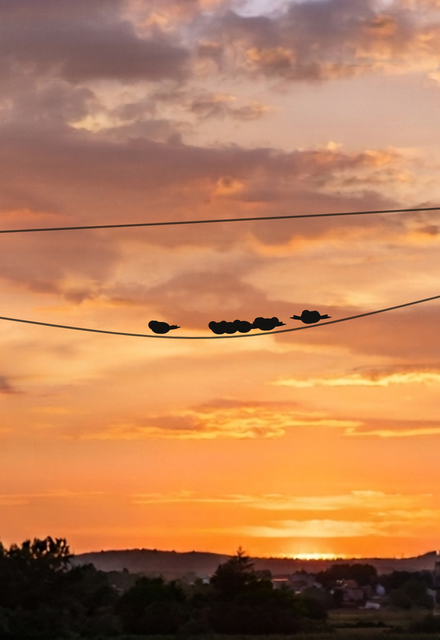
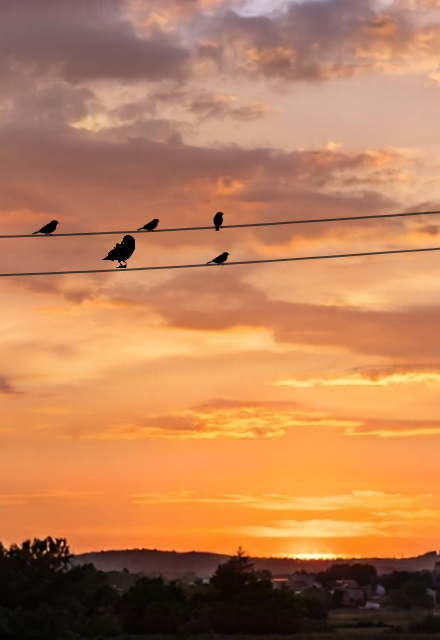
Anthill, acorn, and birds fixes
Anthill: double the twig, add a shadow under the leaf, let ants walk
over the leaf's stem/tip instead of always ducking under it, and give
ants a chance to climb over obstacles instead of always going around.

Acorn: fix spin accumulating forever once wedged against a tray wall
(it now tracks actual movement, not pre-collision speed), ease the
curl rate so it arcs like a rolling cone rather than spiraling tight,
and average the first half-second of tilt readings so the mobile
control doesn't lock onto the instant your hand is still reaching for
the button.

Birds: halve the sparrows, bump the crows up so they read as clearly
bigger, split the single bird count slider into one for each species,
and trim the mismatched wooden perch baked into the crow photos so
crows sit on the same thin wire the sparrows use (this also removes a
watermark smudge that was on one of the crow images). Re-shot the
landing-page card from the corrected scene.

diff --git a/birds/index.html b/birds/index.html
@@ -12,10 +12,10 @@
   #backlink{ position:fixed; top:18px; left:22px; z-index:50; color:var(--parchment); opacity:.6; text-decoration:none; font-size:14px; letter-spacing:.04em; text-shadow:0 1px 3px rgba(0,0,0,.5), 0 0 9px rgba(0,0,0,.3); transition:opacity .3s ease; }
   #backlink:hover{opacity:1;}
   canvas{ position:absolute; inset:0; width:100%; height:100%; display:block; touch-action:none; }
-  #dock{ position:fixed; bottom:0; left:0; right:0; display:flex; align-items:center; justify-content:center; gap:16px;
+  #dock{ position:fixed; bottom:0; left:0; right:0; display:flex; flex-wrap:wrap; align-items:center; justify-content:center; gap:10px 16px;
     padding:14px 18px 24px; background:linear-gradient(to top, rgba(10,13,20,.35), rgba(10,13,20,0)); z-index:40; }
   .glyph{ font-size:15px; opacity:.85; text-shadow:0 1px 3px rgba(0,0,0,.4); display:inline-flex; align-items:center; color:var(--parchment); filter:drop-shadow(0 1px 2px rgba(0,0,0,.4)); }
-  #sparrowRow{ display:flex; align-items:center; gap:10px; }
+  #sparrowRow, #crowRow{ display:flex; align-items:center; gap:10px; }
   input[type=range]{ -webkit-appearance:none; appearance:none; width:200px; height:3px; border-radius:3px; background:rgba(242,233,216,.4); outline:none; }
   input[type=range]::-webkit-slider-thumb{ -webkit-appearance:none; width:14px; height:14px; border-radius:50%; background:var(--brass); cursor:pointer; box-shadow:0 0 6px rgba(0,0,0,.4); }
 </style>
@@ -56,11 +56,13 @@
 <canvas id="scene"></canvas>
 <div id="dock">
   <div id="sparrowRow"><span class="glyph" aria-label="sparrows"><svg width="20" height="16" viewBox="0 0 20 16" fill="currentColor"><ellipse cx="10" cy="9" rx="6.4" ry="4.6"/><circle cx="15.5" cy="5.6" r="3.4"/><path d="M4.2 8 L-0.2 5.4 L-0.2 10.8 Z" transform="translate(0.5,0)"/></svg></span><input type="range" id="sparrowSlider" min="0" max="18" value="6"></div>
+  <div id="crowRow"><span class="glyph" aria-label="crows"><svg width="26" height="20" viewBox="0 0 26 20" fill="currentColor"><ellipse cx="13" cy="11.5" rx="8.8" ry="6.2"/><circle cx="20.5" cy="7" r="4.4"/><path d="M5.4 10 L-0.4 6.6 L-0.4 13.8 Z" transform="translate(0.6,0)"/></svg></span><input type="range" id="crowSlider" min="0" max="10" value="2"></div>
 </div>
 <script>
 (function(){
   const canvas=document.getElementById('scene'), ctx=canvas.getContext('2d');
   const sparrowSlider=document.getElementById('sparrowSlider');
+  const crowSlider=document.getElementById('crowSlider');
   let W=0,H=0,DPR=1;
 
   // ---- background: a real photo (sunset sky + the two poles), used as-is — we only draw
@@ -163,9 +165,33 @@
   // photo, so the feet land exactly on our own wire regardless of window size.
   // White backgrounds render as pure silhouettes via 'multiply' blending (draw() below) —
   // white multiplies to no-op, black multiplies to black, no cutout/alpha-matte needed.
-  function sprite(file,w,h,ax,ay,nativeFacing){
-    const img=new Image(); img.src='bird-sprites/'+file;
-    return {img,w,h,ax,ay,nativeFacing:nativeFacing||-1};
+  // some crow reference photos have their own perch branch baked into the crop, thicker than
+  // and at the wrong angle for the thin wire we draw underneath. `trim` fades that branch out
+  // beyond the bird's own feet (a band of half-width `halfW` around x=ax, cut off entirely
+  // past y=cutY) so our real wire shows through instead of the mismatched one from the photo.
+  function sprite(file,w,h,ax,ay,nativeFacing,trim){
+    const img=new Image();
+    const sp={img,w,h,ax,ay,nativeFacing:nativeFacing||-1,masked:null};
+    img.onload=function(){
+      if(!trim) return;
+      const off=document.createElement('canvas'); off.width=w; off.height=h;
+      const octx=off.getContext('2d');
+      octx.drawImage(img,0,0,w,h);
+      const id=octx.getImageData(0,0,w,h), d=id.data;
+      const {bandY,halfW,cutY,feather=4}=trim;
+      for(let py=0; py<h; py++){
+        for(let px=0; px<w; px++){
+          let keep=1;
+          if(py>bandY){ const dx=Math.abs(px-ax)-halfW; if(dx>0) keep=Math.min(keep,Math.max(0,1-dx/feather)); }
+          if(py>cutY){ const dy=py-cutY; keep=Math.min(keep,Math.max(0,1-dy/feather)); }
+          if(keep<1){ const idx=(py*w+px)*4; d[idx+3]=Math.round(d[idx+3]*keep); }
+        }
+      }
+      octx.putImageData(id,0,0);
+      sp.masked=off;
+    };
+    img.src='bird-sprites/'+file;
+    return sp;
   }
   const FLY_FRAMES=[
     sprite('bird-fly-1.png',424,396,8,282),
@@ -190,7 +216,7 @@
   const SHUFFLE_LAUNCH=sprite('bird-shuffle-launch.png',438,432,255,290);
   const SHUFFLE_SETTLE=sprite('bird-shuffle-settle.png',444,284,147,240);
   const SHUFFLE_CROUCH_END=0.30, SHUFFLE_LAUNCH_END=0.45;   // fractions of the shuffle's total duration
-  const BIRD_SCALE=0.09;    // sprite pixels -> screen pixels, tuned by eye
+  const BIRD_SCALE=0.045;   // sprite pixels -> screen pixels, tuned by eye
   const SPRITE_FLAP_HZ=4.2; // full 8-frame flap cycles per second
 
   // ---- crows: a second, larger, rarer species. Same silhouette/multiply-blend approach as
@@ -207,15 +233,14 @@
     sprite('crow-fly-8.png',261,277,185,165,1),
   ];
   const CROW_LAND_APPROACH=sprite('crow-land-approach.png',268,262,195,135,1);
-  const CROW_TOUCHDOWN=sprite('crow-touchdown.png',292,269,172,236,1);
+  const CROW_TOUCHDOWN=sprite('crow-touchdown.png',292,269,172,236,1,{bandY:188,halfW:32,cutY:224,feather:4});
   const CROW_PERCH_VARIANTS=[
-    sprite('crow-perch.png',217,239,103,224,1),
-    sprite('crow-perch-alt.png',234,222,112.5,209,1),
-    sprite('crow-perch-back.png',232,218,110.5,205,1),
-    sprite('crow-perch-sleep.png',236,209,113.5,197,1),
+    sprite('crow-perch.png',217,239,103,224,1,{bandY:150,halfW:38,cutY:200,feather:4}),
+    sprite('crow-perch-alt.png',234,222,112.5,209,1,{bandY:148,halfW:42,cutY:195,feather:4}),
+    sprite('crow-perch-back.png',232,218,110.5,205,1,{bandY:130,halfW:45,cutY:190,feather:4}),
+    sprite('crow-perch-sleep.png',236,209,113.5,197,1,{bandY:138,halfW:42,cutY:182,feather:4}),
   ];
-  const CROW_SCALE=0.15;   // crows read as a noticeably bigger bird than sparrows, tuned by eye
-  const CROW_CHANCE=0.15;  // fraction of new arrivals that are a crow rather than a sparrow
+  const CROW_SCALE=0.17;   // crows read as a noticeably bigger bird than sparrows, tuned by eye
 
   // draws any of the sprites above at (x,y), silhouette-only via multiply blending, flipped
   // to match the bird's actual facing against however that sprite was originally drawn
@@ -223,10 +248,11 @@
     if(!sp.img.complete || !sp.img.naturalWidth) return;
     scale = scale || BIRD_SCALE;
     const flip = facing===sp.nativeFacing ? 1 : -1;
+    const src = sp.masked || sp.img;
     ctx.save();
     ctx.translate(x,y); ctx.scale(flip,1);
     ctx.globalCompositeOperation='multiply';
-    ctx.drawImage(sp.img, -sp.ax*scale, -sp.ay*scale, sp.w*scale, sp.h*scale);
+    ctx.drawImage(src, -sp.ax*scale, -sp.ay*scale, sp.w*scale, sp.h*scale);
     ctx.restore();
   }
 
@@ -309,9 +335,8 @@
   function randomStayFor(){
     return Math.random()<0.4 ? 3+Math.random()*7 : 10+Math.random()*35;
   }
-  function spawnSparrow(){
+  function spawnSparrow(species){
     const fromLeft=Math.random()<0.5;
-    const species=Math.random()<CROW_CHANCE ? 'crow' : 'sparrow';
     const {wireIdx,x:targetX}=pickLanding();
     const b={id:idc++, species, state:'arriving', x: fromLeft?-40:W+40, y:H*0.25+Math.random()*60,
       targetX, wireIdx, facing: fromLeft?1:-1, wingPhase:Math.random()*7, t:0, shuffleFrom:0, shuffleTo:0, shuffleT:0,
@@ -412,23 +437,26 @@
   }
   window.addEventListener('resize',resize);
 
-  let wantCount=6;
-  sparrowSlider.addEventListener('input',()=>{ wantCount=+sparrowSlider.value; });
+  let wantSparrows=6, wantCrows=2;
+  sparrowSlider.addEventListener('input',()=>{ wantSparrows=+sparrowSlider.value; });
+  crowSlider.addEventListener('input',()=>{ wantCrows=+crowSlider.value; });
   let spawnTimer=0;
 
   let last=performance.now();
   function tick(now){
     const dt=Math.min((now-last)/1000,0.05); last=now;
-    // the slider is a target level of activity, not a hard cap — birds come and go on their
+    // each slider is a target level of activity, not a hard cap — birds come and go on their
     // own (see stayFor/settleCrowding), and arrivals just get more likely the further below
     // that target the current count sits, tapering to a low ambient trickle once at or above it
     spawnTimer-=dt;
     if(spawnTimer<=0){
       spawnTimer=0.4+Math.random()*0.9;
-      const alive=sparrows.filter(b=>b.state!=='departing').length;
-      if(wantCount>0 && alive<wantCount+1){
-        const pressure=Math.max(0,wantCount-alive)/Math.max(1,wantCount);
-        if(Math.random()<0.12+0.7*pressure) spawnSparrow();
+      for(const [species,wantCount] of [['sparrow',wantSparrows],['crow',wantCrows]]){
+        const alive=sparrows.filter(b=>b.species===species && b.state!=='departing').length;
+        if(wantCount>0 && alive<wantCount+1){
+          const pressure=Math.max(0,wantCount-alive)/Math.max(1,wantCount);
+          if(Math.random()<0.12+0.7*pressure) spawnSparrow(species);
+        }
       }
     }
 

diff --git a/acorn/index.html b/acorn/index.html
@@ -264,7 +264,9 @@
   let rawTiltX = 0, rawTiltY = 0;
   let tiltX = 0, tiltY = 0;
   let baseBeta = null, baseGamma = null;
+  let calibSamples = [], calibStart = 0;
   const SMOOTHING = 0.12;
+  const CALIBRATION_MS = 500;
 
   function useDeviceTilt(){
     window.addEventListener('deviceorientation', (e) => {
@@ -273,10 +275,25 @@
       // countdown might sit at 20 degrees or 70 depending on the case or
       // the table, and everyone holds a phone slightly differently even
       // just standing there. Rather than assuming a prop angle, whatever
-      // orientation the phone is actually in the moment tilt gets
-      // enabled becomes the neutral centre, and every reading after that
-      // is measured relative to it.
-      if (baseBeta === null) { baseBeta = e.beta; baseGamma = e.gamma; }
+      // orientation the phone is actually in becomes the neutral centre,
+      // and every reading after that is measured relative to it.
+      //
+      // that "actually in" reading can't be the very first sample, though —
+      // it lands the instant tilt is enabled (or the tray is tapped to
+      // recentre), while the hand is often still reaching the phone up
+      // toward the face to press that button, not resting at however it'll
+      // actually be held to watch afterward. Averaging a brief window of
+      // samples instead gives the hand time to settle back down first.
+      if (baseBeta === null) {
+        if (!calibSamples.length) calibStart = performance.now();
+        calibSamples.push({ beta: e.beta, gamma: e.gamma });
+        if (performance.now() - calibStart >= CALIBRATION_MS) {
+          baseBeta = calibSamples.reduce((s, c) => s + c.beta, 0) / calibSamples.length;
+          baseGamma = calibSamples.reduce((s, c) => s + c.gamma, 0) / calibSamples.length;
+          calibSamples = [];
+        }
+        return;
+      }
       rawTiltX = Math.max(-1, Math.min(1, (e.gamma - baseGamma) / 22));
       rawTiltY = Math.max(-1, Math.min(1, (e.beta - baseBeta) / 22));
     });
@@ -410,10 +427,14 @@
     pebble:    { friction: 0.985, radius: 30, wobble: 0 },
     // acorn cone-roll derived from the real photo: cap outer edge ~441px (R),
     // nut's rounded bottom ~217px (r), axial length ~318px between them.
-    // A tapered object rolls in a circle; curl per px = 2(R-r)/(L(R+r)).
+    // A tapered object rolls in a circle; curl per px = 2(R-r)/(L(R+r)) ≈
+    // 0.0021 for those measurements. The value here had drifted to roughly
+    // double that, which curls it into a tight spiral rather than the wide,
+    // graceful loop an actual cone traces — corrected back to the derived
+    // figure (with a touch of margin for visual clarity).
     // catchInterval 1e9 disables the old random stick-slip kick so the arc
     // reads as a clean, steady cone curve rather than a wavy ball.
-    acorn:     { friction: 0.974, radius: 62, wobble: 1, catchInterval: 1e9, curlRate: 0.0040 },
+    acorn:     { friction: 0.974, radius: 62, wobble: 1, catchInterval: 1e9, curlRate: 0.0024 },
     disc:      { friction: 0.976, radius: 34, wobble: 0, spinOnImpact: 1 },
     jellybean: { friction: 0.982, radius: 32, wobble: 1, catchInterval: 1e9, curlRate: 0.0022 },
   };
@@ -472,6 +493,7 @@
     resetObject();
     baseBeta = null;
     baseGamma = null;
+    calibSamples = [];
   });
 
   // ---------- physics ----------
@@ -488,11 +510,6 @@
 
     const speed = Math.hypot(obj.vx, obj.vy);
     const r = spec.radius;
-
-    // real rolling: how far it's actually travelled determines how much
-    // it's turned, exactly like a wheel — used for rendering the spin,
-    // and for the acorn also used to time when the cap catches next
-    obj.spin += speed / r;
 
     if (spec.wobble) {
       obj.rollDistance += speed;
@@ -545,6 +562,7 @@
       obj.discSpin += obj.discAngVel;
     }
 
+    const prevX = obj.x, prevY = obj.y;
     obj.x += obj.vx;
     obj.y += obj.vy;
 
@@ -554,6 +572,15 @@
     if (obj.x > W - r) { obj.x = W - r; obj.vx = -obj.vx * WALL_RESTITUTION; clacked = true; clackIntensity = Math.abs(obj.vx); if (spec.spinOnImpact) obj.discAngVel -= obj.vy * 0.05; }
     if (obj.y < r) { obj.y = r; obj.vy = -obj.vy * WALL_RESTITUTION; clacked = true; clackIntensity = Math.abs(obj.vy); if (spec.spinOnImpact) obj.discAngVel -= obj.vx * 0.05; }
     if (obj.y > H - r) { obj.y = H - r; obj.vy = -obj.vy * WALL_RESTITUTION; clacked = true; clackIntensity = Math.abs(obj.vy); if (spec.spinOnImpact) obj.discAngVel += obj.vx * 0.05; }
+
+    // real rolling: how far it's actually MOVED this frame determines how
+    // much it's turned, exactly like a wheel — measured after wall contact
+    // is resolved, not the pre-collision velocity. An object pressed into
+    // a wall or corner by steady tilt has nowhere left to roll, so it
+    // should stop spinning too, the same way a real one pinned in place
+    // would — using pre-collision speed here made it spin forever in a
+    // corner even once it had visibly stopped moving.
+    obj.spin += Math.hypot(obj.x - prevX, obj.y - prevY) / r;
     if (clacked && clackIntensity > 0.6) playClack(clackIntensity);
 
     // acorn sprite orientation: a rolling cone keeps its long axis across the

diff --git a/ant/index.html b/ant/index.html
@@ -266,7 +266,7 @@
   // the icons are the only way in or out ----------
   const PEBBLE_R_MIN = 8, PEBBLE_R_MAX = 22;
   const LEAF_R_MIN = 15, LEAF_R_MAX = 45;
-  const TWIG_R_MIN = 16, TWIG_R_MAX = 48;
+  const TWIG_R_MIN = 32, TWIG_R_MAX = 96; // twice the footprint of the original size
   let stones = [];
   let pebbleObstacle = null;
   let leafObstacle = null;
@@ -382,6 +382,14 @@
   // rotated box the leaf photo is drawn into (see render()), inset a little
   // so ants vanish/reappear at roughly the leaf's actual silhouette rather
   // than its full (mostly-transparent-cornered) bounding rectangle.
+  //
+  // a real leaf lying on the ground isn't uniformly raised — it touches
+  // down at its two points, the stem and the tip (the local x-axis, since
+  // the source photo runs stem-on-the-left to tip-on-the-right), and only
+  // arches up over its broader sides in between. So there's a walkway
+  // along that central spine where ants stay visible, walking over the
+  // low point of contact, while the wider belly to either side of it still
+  // hides them underneath.
   function underLeaf(x,y){
     if (!leafObstacle) return false;
     const lw = leafObstacle.r*2.8, lh = lw * ((leafImg.naturalHeight||1)/(leafImg.naturalWidth||1));
@@ -390,7 +398,10 @@
     const dx = x-leafObstacle.x, dy = y-leafObstacle.y;
     const cos = Math.cos(-rot), sin = Math.sin(-rot);
     const lx = dx*cos - dy*sin, ly = dx*sin + dy*cos;
-    return (lx*lx)/(rx*rx) + (ly*ly)/(ry*ry) <= 1;
+    const insideFootprint = (lx*lx)/(rx*rx) + (ly*ly)/(ry*ry) <= 1;
+    if (!insideFootprint) return false;
+    const onWalkway = Math.abs(ly) < ry*0.22;
+    return !onWalkway;
   }
 
   // ---------- colony and food ----------
@@ -411,6 +422,7 @@
       state: 'search', // search | toFood | return
       wobble: Math.random()*Math.PI*2,
       straightTimer: 30 + Math.random()*60,
+      climbing: null, // the obstacle currently being crossed straight over, if any
     };
   }
   function syncAntCount(){
@@ -423,6 +435,20 @@
   function stepAnt(a, dt){
     const speed = 1.3 * speedMult * dt;
     a.wobble += dt*0.15;
+
+    if (a.climbing){
+      // already committed to crossing a pebble or twig straight over rather
+      // than around — hold the heading it started with (a real ant doesn't
+      // change its mind partway up) and ignore the search/trail/collision
+      // logic below entirely until it's clear of the far side
+      let cx = a.x + Math.cos(a.heading)*speed;
+      let cy = a.y + Math.sin(a.heading)*speed;
+      cx = Math.max(4, Math.min(W-4, cx));
+      cy = Math.max(4, Math.min(H-4, cy));
+      a.x = cx; a.y = cy;
+      if (Math.hypot(a.climbing.x-a.x, a.climbing.y-a.y) > a.climbing.r*1.05) a.climbing = null;
+      return;
+    }
 
     if (a.state === 'search'){
       // weighted choice: mostly wander, but nearby trail strength pulls
@@ -463,12 +489,18 @@
       if (distToColony < 14){ a.state = 'search'; a.heading = Math.random()*Math.PI*2; }
     }
 
-    // obstacle disruption: if the step ahead is blocked, weighted random
-    // alternate direction — this is the actual mechanic, not scripted
-    // pathing around stones
+    // obstacle disruption: if the step ahead is blocked, either climb
+    // straight over it (a real ant crossing a low pebble or twig, not
+    // every single one detouring around) or fall back to a weighted random
+    // alternate direction
     let nx = a.x + Math.cos(a.heading)*speed;
     let ny = a.y + Math.sin(a.heading)*speed + Math.sin(a.wobble)*0.3;
     if (blockedAt(nx,ny)){
+      const obstacle = stones.find(s => s.type !== 'leaf' && Math.hypot(s.x-nx,s.y-ny) < s.r);
+      if (obstacle && Math.random() < 0.3){
+        a.climbing = obstacle;
+        return;
+      }
       const choices = [-1.1,-0.6,0.6,1.1];
       a.heading += choices[Math.floor(Math.random()*choices.length)];
       nx = a.x + Math.cos(a.heading)*speed;
@@ -665,6 +697,24 @@
       ctx.stroke();
       ctx.restore();
     });
+
+    // leaf shadow — cast on the ground by the raised canopy, offset toward
+    // the same implied light direction as the candy's shadow above. Drawn
+    // here (before the ants) rather than down with the leaf image itself,
+    // so it's ground shading ants visibly cross like any other, not a mark
+    // that floats on top of them.
+    if (leafObstacle && leafImgReady){
+      const lw = leafObstacle.r*2.8, lh = lw * (leafImg.naturalHeight/leafImg.naturalWidth);
+      ctx.save();
+      ctx.globalAlpha = lightLevel;
+      ctx.translate(leafObstacle.x+3, leafObstacle.y+4);
+      ctx.rotate(leafObstacle.rot||0);
+      ctx.beginPath();
+      ctx.ellipse(0, 0, lw/2*0.82, lh/2*0.68, 0, 0, Math.PI*2);
+      ctx.fillStyle = 'rgba(0,0,0,0.28)';
+      ctx.fill();
+      ctx.restore();
+    }
 
     // ants — three body segments, six legs and antennae, so they read as ants
     // rather than specks. Heading points along +x (forward).
